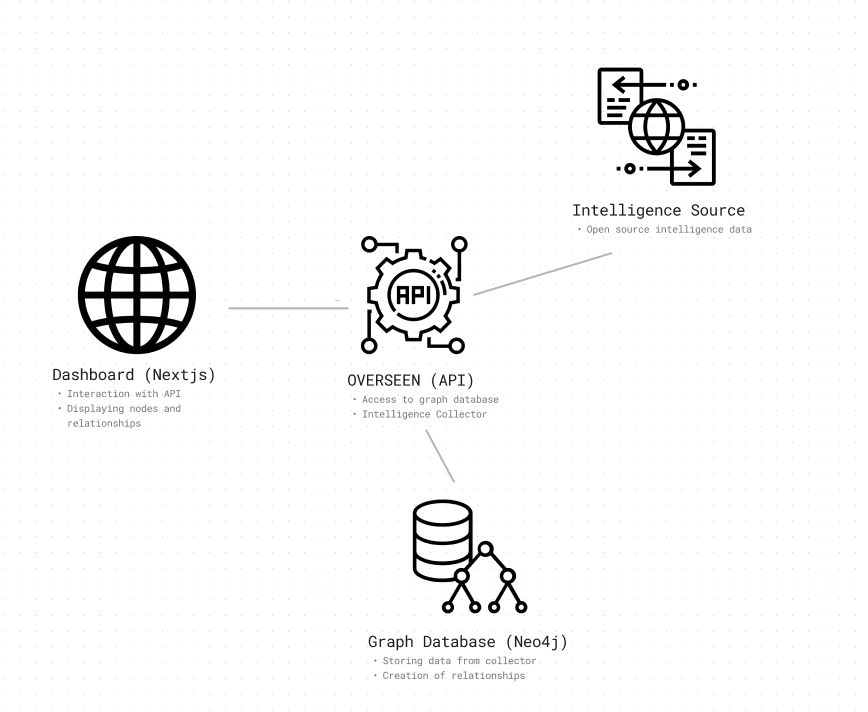
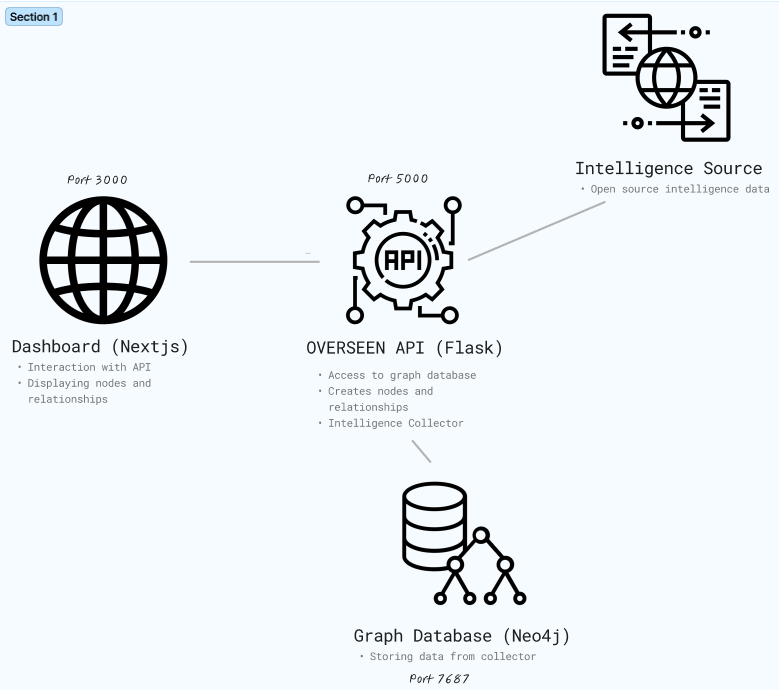
improved readme

diff --git a/README.md b/README.md
@@ -78,9 +78,11 @@ To get gather subdomains from a domain we use technique like google dorks and ce
 
 ## Architecture
 
--   Each microservice is in a single container.
-
 <img src="assets/microservice_architecture.png" alt="architecture" heigth="400" width="400">
+
+-   For the dashboard we use [Next.js](https://nextjs.org/) with the [MUI](https://mui.com/), [vis-data](https://www.npmjs.com/package/vis-data) and [vis-network](https://www.npmjs.com/package/vis-network) libraries to display the nodes and interaction with the api (we also use other libraries).
+-   For the API we use the Flask framework for python.
+-   For the database we use the graph database [Neo4j](https://neo4j.com/)
 
 ## Testing
 
